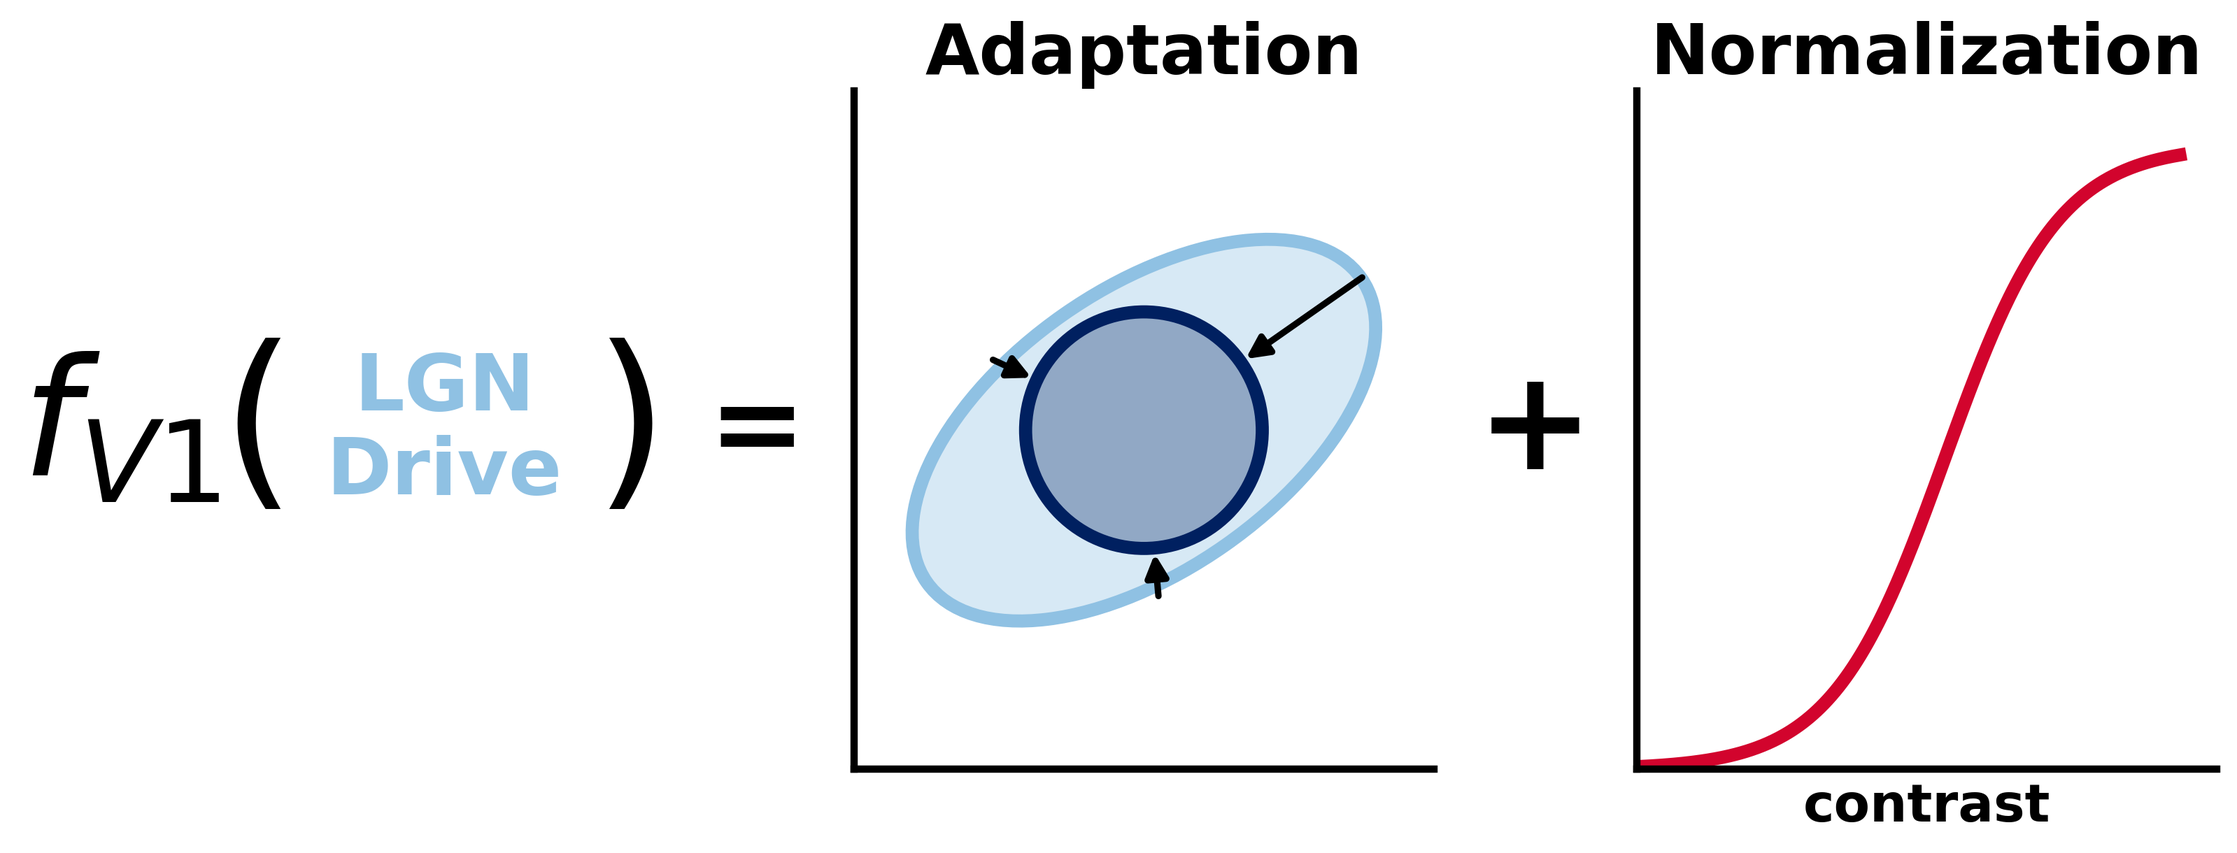
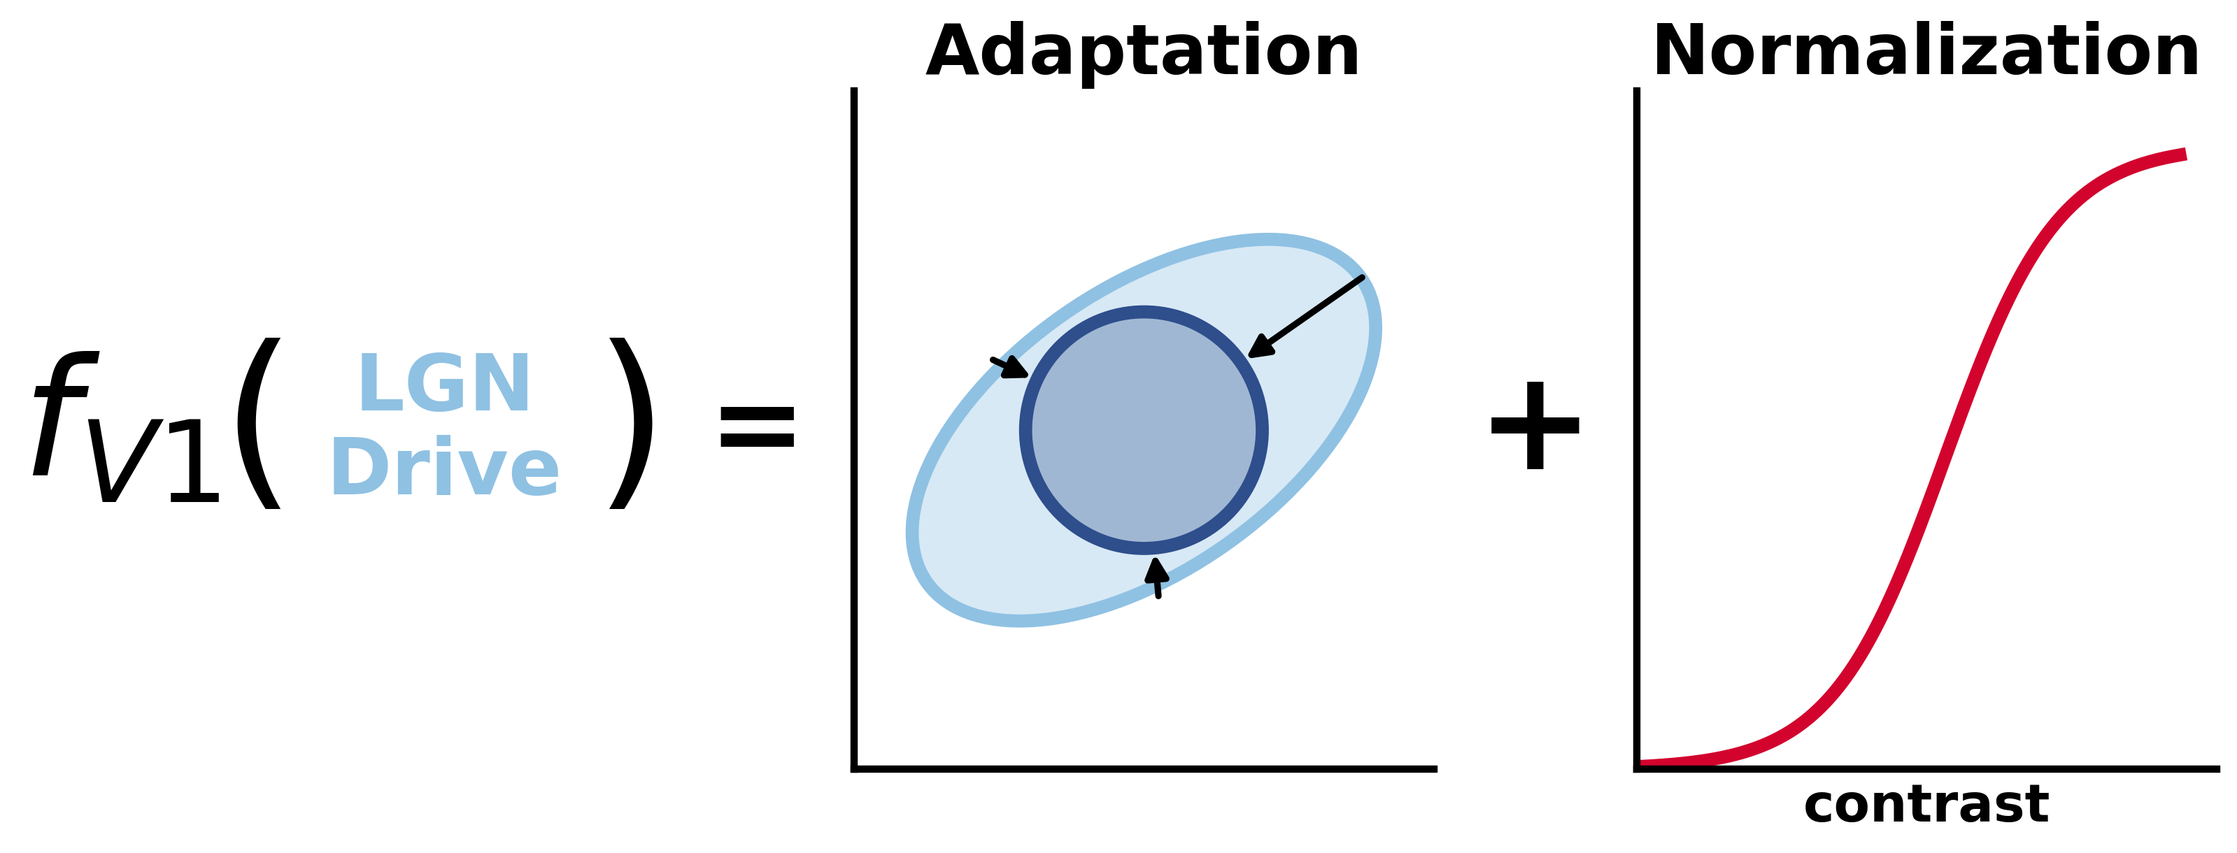
adding spatial schematic

diff --git a/ORGaNICs_Whitening/analysis/figures.py b/ORGaNICs_Whitening/analysis/figures.py
@@ -91,7 +91,8 @@ sys.path.insert(0, REPO_ROOT)
 
 import numpy as np
 import matplotlib.pyplot as plt
-from matplotlib.patches import Ellipse, FancyArrowPatch, Circle
+from matplotlib.patches import Ellipse, FancyArrowPatch, Circle, Arc
+from matplotlib.lines import Line2D
 from matplotlib.colors import to_rgba
 from stimuli_whiten import StimulusGenerator
 from frame_whiten import Frame
@@ -486,82 +487,257 @@ def plot_covariance_whitening_frame(n_points=300, theta_t=1.0, std_major=2.0, st
     return fig
 
 
-def _circle_patch(center, radius, color, lw, fill_alpha, zorder):
-    '''A Circle patch with a fully-opaque border and a lightly-shaded interior of the SAME
-    color -- same face/edge-alpha decoupling trick as _cov_ellipse_patch, so the thick
-    border reads at full color while the interior stays light.'''
+def _circle_patch(center, radius, color, lw, fill_alpha, zorder, edge_color=None):
+    '''A Circle patch with a fully-opaque border and a lightly-shaded interior -- same
+    face/edge-alpha decoupling trick as _cov_ellipse_patch, so the thick border reads at
+    full color while the interior stays light. By default the border is the SAME `color` as
+    the fill (at full alpha); pass `edge_color` to use a different, independent border color
+    (e.g. plot_crf_surround_schematic's all-black RF borders around a grey fill).'''
     return Circle(center, radius, facecolor=to_rgba(color, fill_alpha),
-                  edgecolor=to_rgba(color, 1.0), linewidth=lw, zorder=zorder)
+                  edgecolor=to_rgba(edge_color if edge_color is not None else color, 1.0),
+                  linewidth=lw, zorder=zorder)
 
 
-def _crf_surround_centers(radius, n_surround, gap):
+def _crf_surround_centers(radius, n_surround, gap, start_angle_deg=90.0):
     '''Shared layout math for the cRF + surround flower (see plot_crf_surround_schematic's
     docstring for the tangent-packing derivation): surround centers sit on a ring of radius
-    2*radius + gap, evenly spaced (360/n_surround apart, first one straight up). Factored out
-    so every figure built on this flower (e.g. plot_crf_surround_normalization_schematic)
-    uses IDENTICAL geometry to plot_crf_surround_schematic, rather than a second copy that
-    could drift out of sync with it.'''
+    2*radius + gap, evenly spaced (360/n_surround apart, first one at start_angle_deg -- 90
+    (straight up) by default). Factored out so every figure built on this flower (e.g.
+    plot_crf_surround_normalization_schematic) uses IDENTICAL geometry to
+    plot_crf_surround_schematic, rather than a second copy that could drift out of sync with
+    it. `start_angle_deg` only rotates the ring: plot_crf_surround_schematic passes 0 for a
+    "flat-top" hexagon (two circles at the top/bottom, none straight up/down) matching its
+    reference sketch, while callers that want the original "one circle straight up" layout
+    (e.g. plot_crf_surround_normalization_schematic, whose pooling-hub geometry below relies
+    on it) keep the default.'''
     ring_r = 2 * radius + gap
-    angles = 90 + np.arange(n_surround) * (360.0 / n_surround)
+    angles = start_angle_deg + np.arange(n_surround) * (360.0 / n_surround)
     surround_centers = [(ring_r * np.cos(np.radians(a)), ring_r * np.sin(np.radians(a)))
                          for a in angles]
     return surround_centers, ring_r
 
 
-def plot_crf_surround_schematic(radius=1.0, n_surround=6, gap=0.18, save_path=None):
+def _edge_segment(c1, r1, c2, r2):
+    '''Returns the short (start, end) segment lying strictly in the GAP between two circles
+    of radii r1, r2 centered at c1, c2 -- i.e. the piece of the center-to-center line that is
+    outside both circles, not the full line between the centers. Used to draw
+    plot_crf_surround_schematic's normalization bars so each one reads as connecting the two
+    circles' edges (as in the reference sketch) rather than running underneath their
+    (semi-transparent) fills.'''
+    c1, c2 = np.asarray(c1, dtype=float), np.asarray(c2, dtype=float)
+    u = c2 - c1
+    u = u / np.linalg.norm(u)
+    return tuple(c1 + r1 * u), tuple(c2 - r2 * u)
+
+
+def _self_loop_arrow(ax, center, obj_radius, direction_deg, loop_radius, color, lw=4.5,
+                      gap_deg=45.0, mutation_scale=26, standoff=0.0, zorder=6):
+    '''Draws one near-circular "feeds back on itself" self-loop just outside a circle: a
+    small loop of radius `loop_radius`, whose own center sits `direction_deg` degrees
+    outward from `center` (0 = +x/east, counterclockwise) at distance
+    obj_radius + standoff + loop_radius -- i.e. just past that circle's boundary in the given
+    direction, with an extra `standoff` gap so the loop doesn't crowd the circle -- matching
+    the reference sketch's self-arrows sitting on the outside of each RF, on the side away
+    from the cRF. Drawn as an Arc spanning (360 - gap_deg) degrees, with a short
+    FancyArrowPatch closing the last few degrees of that span so the loop reads as "almost
+    circular" but directed, rather than a plain closed ring or a full loop with two competing
+    arrowheads.
+
+    The missing `gap_deg` wedge is centered on the side of the loop FACING the object: since
+    `loop_center` sits at ABSOLUTE angle `direction_deg` from `center`, the object itself
+    sits at absolute angle `direction_deg + 180` as seen FROM loop_center (not a fixed
+    constant -- Arc's theta1/theta2 are absolute-frame angles, so this must rotate with
+    `direction_deg`, otherwise only a loop with direction_deg=0 would actually face its own
+    circle) -- each of the 7 loops (one per RF, each at its own direction_deg) gets its own
+    correctly-rotated orientation instead of sharing one.
+
+    The arrowhead itself is NOT just the tangential tail end of the arc (a point on the loop's
+    own circumference only ever points perpendicular to the loop's radius there, i.e. never
+    truly "at" the object, no matter which point on the circle you pick): its start point
+    `pre_pt` is on the arc as usual, but its end point is pulled inward, onto the OBJECT's own
+    boundary (`center + obj_radius*dvec`, i.e. the near point of the circle the loop belongs
+    to) -- steering the little connecting segment off the circular path and angling it
+    radially in, so the drawn arrowhead visibly points into the RF instead of skimming past
+    it tangentially.'''
+    dvec = np.array([np.cos(np.radians(direction_deg)), np.sin(np.radians(direction_deg))])
+    center = np.asarray(center, dtype=float)
+    loop_center = center + (obj_radius + standoff + loop_radius) * dvec
+    facing_deg = direction_deg + 180.0   # absolute angle, from loop_center, back toward center
+    theta1, theta2 = facing_deg + gap_deg / 2.0, facing_deg + 360.0 - gap_deg / 2.0
+    ax.add_patch(Arc(tuple(loop_center), 2 * loop_radius, 2 * loop_radius, angle=0,
+                      theta1=theta1, theta2=theta2, color=color, linewidth=lw, zorder=zorder))
+    pre_rad = np.radians(theta2 - 14.0)
+    pre_pt  = loop_center + loop_radius * np.array([np.cos(pre_rad), np.sin(pre_rad)])
+    end_pt  = center + obj_radius * dvec   # on the RF's own boundary -- see docstring
+    ax.add_patch(FancyArrowPatch(tuple(pre_pt), tuple(end_pt), arrowstyle='-|>',
+                                  mutation_scale=mutation_scale, linewidth=lw, color=color,
+                                  zorder=zorder))
+
+
+def plot_crf_surround_schematic(radius=1.0, n_surround=6, gap=0.55, save_path=None):
     '''
     Figure -- schematic of the classical receptive field (cRF) model used throughout this
-    codebase: one central cRF surrounded by n_surround (default 6) same-size surround RFs.
+    codebase: one central cRF surrounded by n_surround (default 6) same-size surround RFs,
+    additionally depicting WHERE two mechanisms act (reproducing the hand sketch supplied
+    with the request):
+      - Global normalization: a thick bar, in the SAME color as the normalization
+        contrast-response curve in generate_ellipse_norm_schamatic (its CHERRY_RED), joining
+        every pair of circles that are actually adjacent in the flower -- the cRF-to-surround
+        spokes and the ring of surround-to-surround neighbors -- drawn via _edge_segment so
+        each bar sits exactly in the gap between two circles' edges. `gap` is deliberately
+        generous (0.55*radius, vs. plot_crf_surround_normalization_schematic's tight 0.18) so
+        these bars read clearly rather than being crowded out by near-touching circles.
+      - Local adaptation: one near-circular self-loop arrow (_self_loop_arrow) per circle,
+        including the cRF, in the SAME dark navy as the small whitened-covariance circle in
+        generate_ellipse_norm_schamatic (its NAVY) -- "this color = adaptation" thus reads
+        consistently across figures, the same way NORM_COLOR does for normalization. Each
+        loop sits OUTSIDE its own circle, on the side away from the cRF (radially outward for
+        the surrounds), with its gap/arrowhead facing back toward that circle (see
+        _self_loop_arrow's docstring) so the arrowhead visibly points into the RF it belongs
+        to rather than away from it.
 
     Layout: all n_surround+1 circles share one radius. Surround centers sit on a ring of
-    radius 2*radius + gap, evenly spaced (360/n_surround apart, first one straight up) --
-    starting from the "seven equal circles" packing (ring radius 2*radius, where every
-    surround circle is EXACTLY tangent to the cRF circle AND to its two ring neighbors: for
-    n_surround=6, two circles of radius r whose centers are both at distance 2r from the
-    origin and 60 degrees apart are themselves exactly 2r apart center-to-center) and then
-    inflating the ring radius by `gap`. At 60-degree spacing the chord between ring
-    neighbors equals the ring radius itself (2*r*sin(30 deg) = r), so this single `gap` term
-    opens an IDENTICAL, exact gap both between the cRF and every surround circle and between
-    each pair of neighboring surround circles -- not two separately-tuned spacings.
+    radius 2*radius + gap, evenly spaced 360/n_surround apart -- starting from the "seven
+    equal circles" packing (ring radius 2*radius, where every surround circle is EXACTLY
+    tangent to the cRF circle AND to its two ring neighbors: for n_surround=6, two circles of
+    radius r whose centers are both at distance 2r from the origin and 60 degrees apart are
+    themselves exactly 2r apart center-to-center) and then inflating the ring radius by
+    `gap`. At 60-degree spacing the chord between ring neighbors equals the ring radius
+    itself (2*r*sin(30 deg) = r), so this single `gap` term opens an IDENTICAL, exact gap
+    both between the cRF and every surround circle and between each pair of neighboring
+    surround circles -- not two separately-tuned spacings.
 
-    Colors: cRF dark blue (matches this module's COLORS['Double-peaked']); surround light
-    blue (matches plot_covariance_whitening_frame's ORIG_COLOR) -- reusing both across the
-    module's figures rather than inventing new ones. A white "+" marks the center of the
-    cRF (the fixation point / center of gaze), and both the cRF and one representative
-    surround circle carry a text label (all six surrounds are identical by construction, so
-    labeling one is labeling all of them). Pure schematic -- no axes, ticks, or grid.
+    Unlike plot_crf_surround_normalization_schematic (which keeps _crf_surround_centers'
+    default "one circle straight up" ring), this figure rotates the ring to start_angle_deg=0
+    -- a "flat-top" hexagon with TWO circles at the top and two at the bottom, matching the
+    sketch: it puts a pair of surround circles side by side under one shared "Surround"
+    label (with a slightly-curved arrow diverging to each), and leaves the
+    straight-up/straight-down directions free of any cRF-to-surround spoke, so the cRF's own
+    self-loop -- placed straight down -- sits clearly between its two nearest normalization
+    bars rather than on top of one.
+
+    Colors: every RF circle (cRF and surrounds alike) has a BLACK border -- all seven are the
+    same kind of unit, so borders no longer encode cRF-vs-surround identity. Fill is a single
+    neutral grey, at low opacity for the surrounds and higher opacity for the cRF, so the cRF
+    still reads as visually "heavier"/foregrounded without a separate hue. A large-font
+    legend at the right names both mechanisms by color (text colored to match its own line).
+    Pure schematic -- no axes, ticks, or grid.
     '''
-    CRF_COLOR  = '#002060'   # dark blue (COLORS['Double-peaked'])
-    SURR_COLOR = '#5B9BD5'   # light blue (plot_covariance_whitening_frame's ORIG_COLOR)
-    BORDER_LW  = 5.0
+    RF_EDGE_COLOR    = 'black'    # all seven RF borders -- circle identity no longer color-coded
+    SURR_FILL_COLOR  = '#808080'  # neutral grey fill for the surrounds
+    SURR_FILL_ALPHA  = 0.60       # low(er) opacity -- surrounds read as the "background" units
+    # cRF fill is already at alpha=1.0 (fully opaque -- can't go higher), so "more opaque"
+    # for it instead means a darker base grey than the surrounds', so it reads as solid/
+    # foregrounded rather than merely alpha=1.0 of the same light grey.
+    CRF_FILL_COLOR   = '#404040'
+    CRF_FILL_ALPHA   = 1.0
+    LABEL_COLOR      = 'black'    # "Surround"/"cRF" text + the "Surround" pointer arrows
+    NORM_COLOR  = '#D2042D'   # cherry red -- SAME color as the normalization contrast-
+                              # response curve in generate_ellipse_norm_schamatic (its
+                              # CHERRY_RED), so "this color = normalization" reads
+                              # consistently across figures
+    ADAPT_COLOR = '#2E4E8C'  # lightened navy -- SAME color as the small whitened-covariance
+                              # circle (NAVY) in generate_ellipse_norm_schamatic, so "this
+                              # color = adaptation" reads consistently across figures
+    BORDER_LW   = 7.5
+    BAR_LW      = 11.0
+    LOOP_LW     = 4.5    # self-loop line thickness (also bumped: their mutation_scale, via
+                          # _self_loop_arrow's own higher default)
+    SURR_ARROW_LW = 3.2  # "Surround" pointer-arrow line thickness
+    SURR_ARROW_SCALE = 30   # "Surround" pointer-arrowhead size
 
-    fig, ax = plt.subplots(figsize=(6.5, 6.5))
+    fig, ax = plt.subplots(figsize=(9.5, 7.8))
     ax.set_aspect('equal', adjustable='box')
     ax.axis('off')
 
-    surround_centers, ring_r = _crf_surround_centers(radius, n_surround, gap)
+    surround_centers, ring_r = _crf_surround_centers(radius, n_surround, gap,
+                                                       start_angle_deg=0.0)
+    surround_angles = [i * (360.0 / n_surround) for i in range(n_surround)]
 
+    # ---- global-normalization bars (thick red), drawn first (low zorder) so the circles
+    # drawn afterward sit cleanly on top of their ends ----
+    for c in surround_centers:   # cRF <-> each surround (the "spokes")
+        start, end = _edge_segment((0.0, 0.0), radius, c, radius)
+        ax.plot(*zip(start, end), color=NORM_COLOR, linewidth=BAR_LW,
+                solid_capstyle='butt', zorder=1)
+    for i in range(n_surround):   # surround <-> surround (the ring)
+        c1, c2 = surround_centers[i], surround_centers[(i + 1) % n_surround]
+        start, end = _edge_segment(c1, radius, c2, radius)
+        ax.plot(*zip(start, end), color=NORM_COLOR, linewidth=BAR_LW,
+                solid_capstyle='butt', zorder=1)
+
+    # ---- local-adaptation self-loops (navy): one per surround circle, on the outside of
+    # the flower, plus one for the cRF straight down -- a direction with no spoke at
+    # start_angle_deg=0, so it sits visibly between the two nearest bars ----
+    loop_r = 0.34 * radius
+    loop_standoff = 0.22 * radius       # extra gap between each surround and its self-loop
+    crf_loop_standoff = 0.05 * radius   # the cRF's own loop sits closer to its border
+    for c, ang in zip(surround_centers, surround_angles):
+        _self_loop_arrow(ax, c, radius, ang, loop_r, ADAPT_COLOR, lw=LOOP_LW,
+                          standoff=loop_standoff, zorder=6)
+    _self_loop_arrow(ax, (0.0, 0.0), radius, 270.0, loop_r, ADAPT_COLOR, lw=LOOP_LW,
+                      standoff=crf_loop_standoff, zorder=6)
+
+    # ---- the flower itself: black borders throughout, grey fill distinguished only by
+    # opacity (surrounds low, cRF higher) ----
     for c in surround_centers:
-        ax.add_patch(_circle_patch(c, radius, SURR_COLOR, lw=BORDER_LW, fill_alpha=0.35, zorder=2))
-    # cRF fill is near-solid (not the same light 0.35 alpha as the surrounds): at low alpha
-    # over white, the dark-navy CRF_COLOR washes out to a gray-lavender instead of reading
-    # as "dark blue" -- it needs much less mixing with the white background to hold its color.
-    ax.add_patch(_circle_patch((0, 0), radius, CRF_COLOR, lw=BORDER_LW, fill_alpha=0.88, zorder=3))
-
-    # ---- fixation-point "+" at the very center of the cRF ----
-    arm = 0.28 * radius
-    ax.plot([-arm, arm], [0, 0], color='white', linewidth=3.5, solid_capstyle='round', zorder=4)
-    ax.plot([0, 0], [-arm, arm], color='white', linewidth=3.5, solid_capstyle='round', zorder=4)
+        ax.add_patch(_circle_patch(c, radius, SURR_FILL_COLOR, lw=BORDER_LW,
+                                    fill_alpha=SURR_FILL_ALPHA, zorder=2,
+                                    edge_color=RF_EDGE_COLOR))
+    ax.add_patch(_circle_patch((0, 0), radius, CRF_FILL_COLOR, lw=BORDER_LW,
+                                fill_alpha=CRF_FILL_ALPHA, zorder=3, edge_color=RF_EDGE_COLOR))
 
     # ---- labels ----
-    ax.text(0, -0.55 * radius, 'cRF', color='white', fontsize=20, fontweight='bold',
+    # White text: with CRF_FILL_ALPHA now ~1.0, the cRF fill is dark enough again (near the
+    # solid base SURR_FILL_COLOR grey) for white to read clearly against it.
+    ax.text(0, 0, 'cRF', color='white', fontsize=20, fontweight='bold',
             ha='center', va='center', zorder=5)
-    ax.text(surround_centers[0][0], surround_centers[0][1], 'Surround', color=CRF_COLOR,
-            fontsize=19, fontweight='bold', ha='center', va='center', zorder=5)
 
-    lim = 1.15 * (ring_r + radius)
+    # "Surround" label centered above the two top circles (60/120 deg), with a slightly
+    # curved arrow (concave-down, like a shallow eyebrow) diverging down to each -- both are
+    # identical by construction, so one label with two arrows names them together rather
+    # than labeling either circle individually.
+    upper_right, upper_left = surround_centers[1], surround_centers[2]   # 60 deg, 120 deg
+    circles_top_y = upper_left[1] + radius   # both top circles share this y (same radius/ring)
+    label_xy = (0.0, circles_top_y + 0.65 * radius)   # well above the circles, so the two
+                                                        # arrows below have real vertical drop
+                                                        # instead of reading as sideways ticks
+    ax.text(*label_xy, 'Surround', color=LABEL_COLOR, fontsize=19, fontweight='bold',
+            ha='center', va='bottom', zorder=7)
+    # Arrows land on each circle's own TOP point (center + (0, radius)), not the point
+    # nearest the label -- that keeps the two arrows visibly diverging toward each circle
+    # individually, instead of both converging on the shared gap between them. Curvature
+    # (arc3, rad) is mirrored left/right and signed so each arrow bows slightly UPWARD
+    # (concave down, like a shallow cap "⌢") rather than sagging toward the flower. The two
+    # start points are offset apart (not one shared point) for visible space between the two
+    # arrows near the label, and each ends with a margin above its circle rather than landing
+    # exactly on its boundary, so the arrowhead doesn't crowd the RF it points to.
+    start_spread = 0.22 * radius
+    target_gap = 0.22 * radius
+    arrow_starts = {upper_left:  (label_xy[0] - start_spread, label_xy[1] - 0.08 * radius),
+                    upper_right: (label_xy[0] + start_spread, label_xy[1] - 0.08 * radius)}
+    for target, rad in ((upper_left, 0.25), (upper_right, -0.25)):
+        arrow_end = (target[0], circles_top_y + target_gap)
+        ax.annotate('', xy=arrow_end, xytext=arrow_starts[target],
+                    arrowprops=dict(arrowstyle='-|>', color=LABEL_COLOR,
+                                     linewidth=SURR_ARROW_LW, mutation_scale=SURR_ARROW_SCALE,
+                                     connectionstyle=f'arc3,rad={rad}'),
+                    zorder=7)
+
+    # ---- legend: which color represents which mechanism (text colored to match its line) ----
+    legend_handles = [
+        Line2D([0], [0], color=ADAPT_COLOR, linewidth=LOOP_LW + 1, label='Local Adaptation'),
+        Line2D([0], [0], color=NORM_COLOR, linewidth=BAR_LW * 0.6, label='Global Normalization'),
+    ]
+    legend = ax.legend(handles=legend_handles, loc='center left', bbox_to_anchor=(1.03, 0.5),
+                        fontsize=19, frameon=False, handlelength=2.2, labelspacing=1.6,
+                        borderaxespad=0.0)
+    for text, handle in zip(legend.get_texts(), legend_handles):
+        text.set_color(handle.get_color())
+
+    lim = 1.35 * (ring_r + radius)
     ax.set_xlim(-lim, lim)
-    ax.set_ylim(-lim, lim)
+    ax.set_ylim(-lim, lim + 0.55 * radius)
 
     plt.tight_layout()
     if save_path is not None:
@@ -813,7 +989,11 @@ def generate_ellipse_norm_schamatic(save_path=None):
     figure title, per request.
     '''
     PASTEL_BLUE = '#8FC1E3'   # large ellipse + "LGN Drive" label
-    NAVY        = '#002060'   # matches this module's COLORS['Double-peaked']
+    NAVY        = '#2E4E8C'   # "adaptation" blue -- lightened from an earlier '#002060'
+                              # (this module's COLORS['Double-peaked']) by request; kept in
+                              # sync with plot_crf_surround_schematic's ADAPT_COLOR, which
+                              # reuses this exact hex so "adaptation" reads as one consistent
+                              # color across figures
     CHERRY_RED  = '#D2042D'   # normalization curve
     AXIS_LW  = 2.5
 
@@ -984,7 +1164,7 @@ if __name__ == "__main__":
     #plot_eigenvalue_diagnostic()
     #plot_eigenvector_heatmaps()
     #plot_covariance_whitening_frame()
-    #plot_crf_surround_schematic()
+    plot_crf_surround_schematic()
     #plot_crf_surround_normalization_schematic()
     generate_ellipse_norm_schamatic()
     plt.show()
